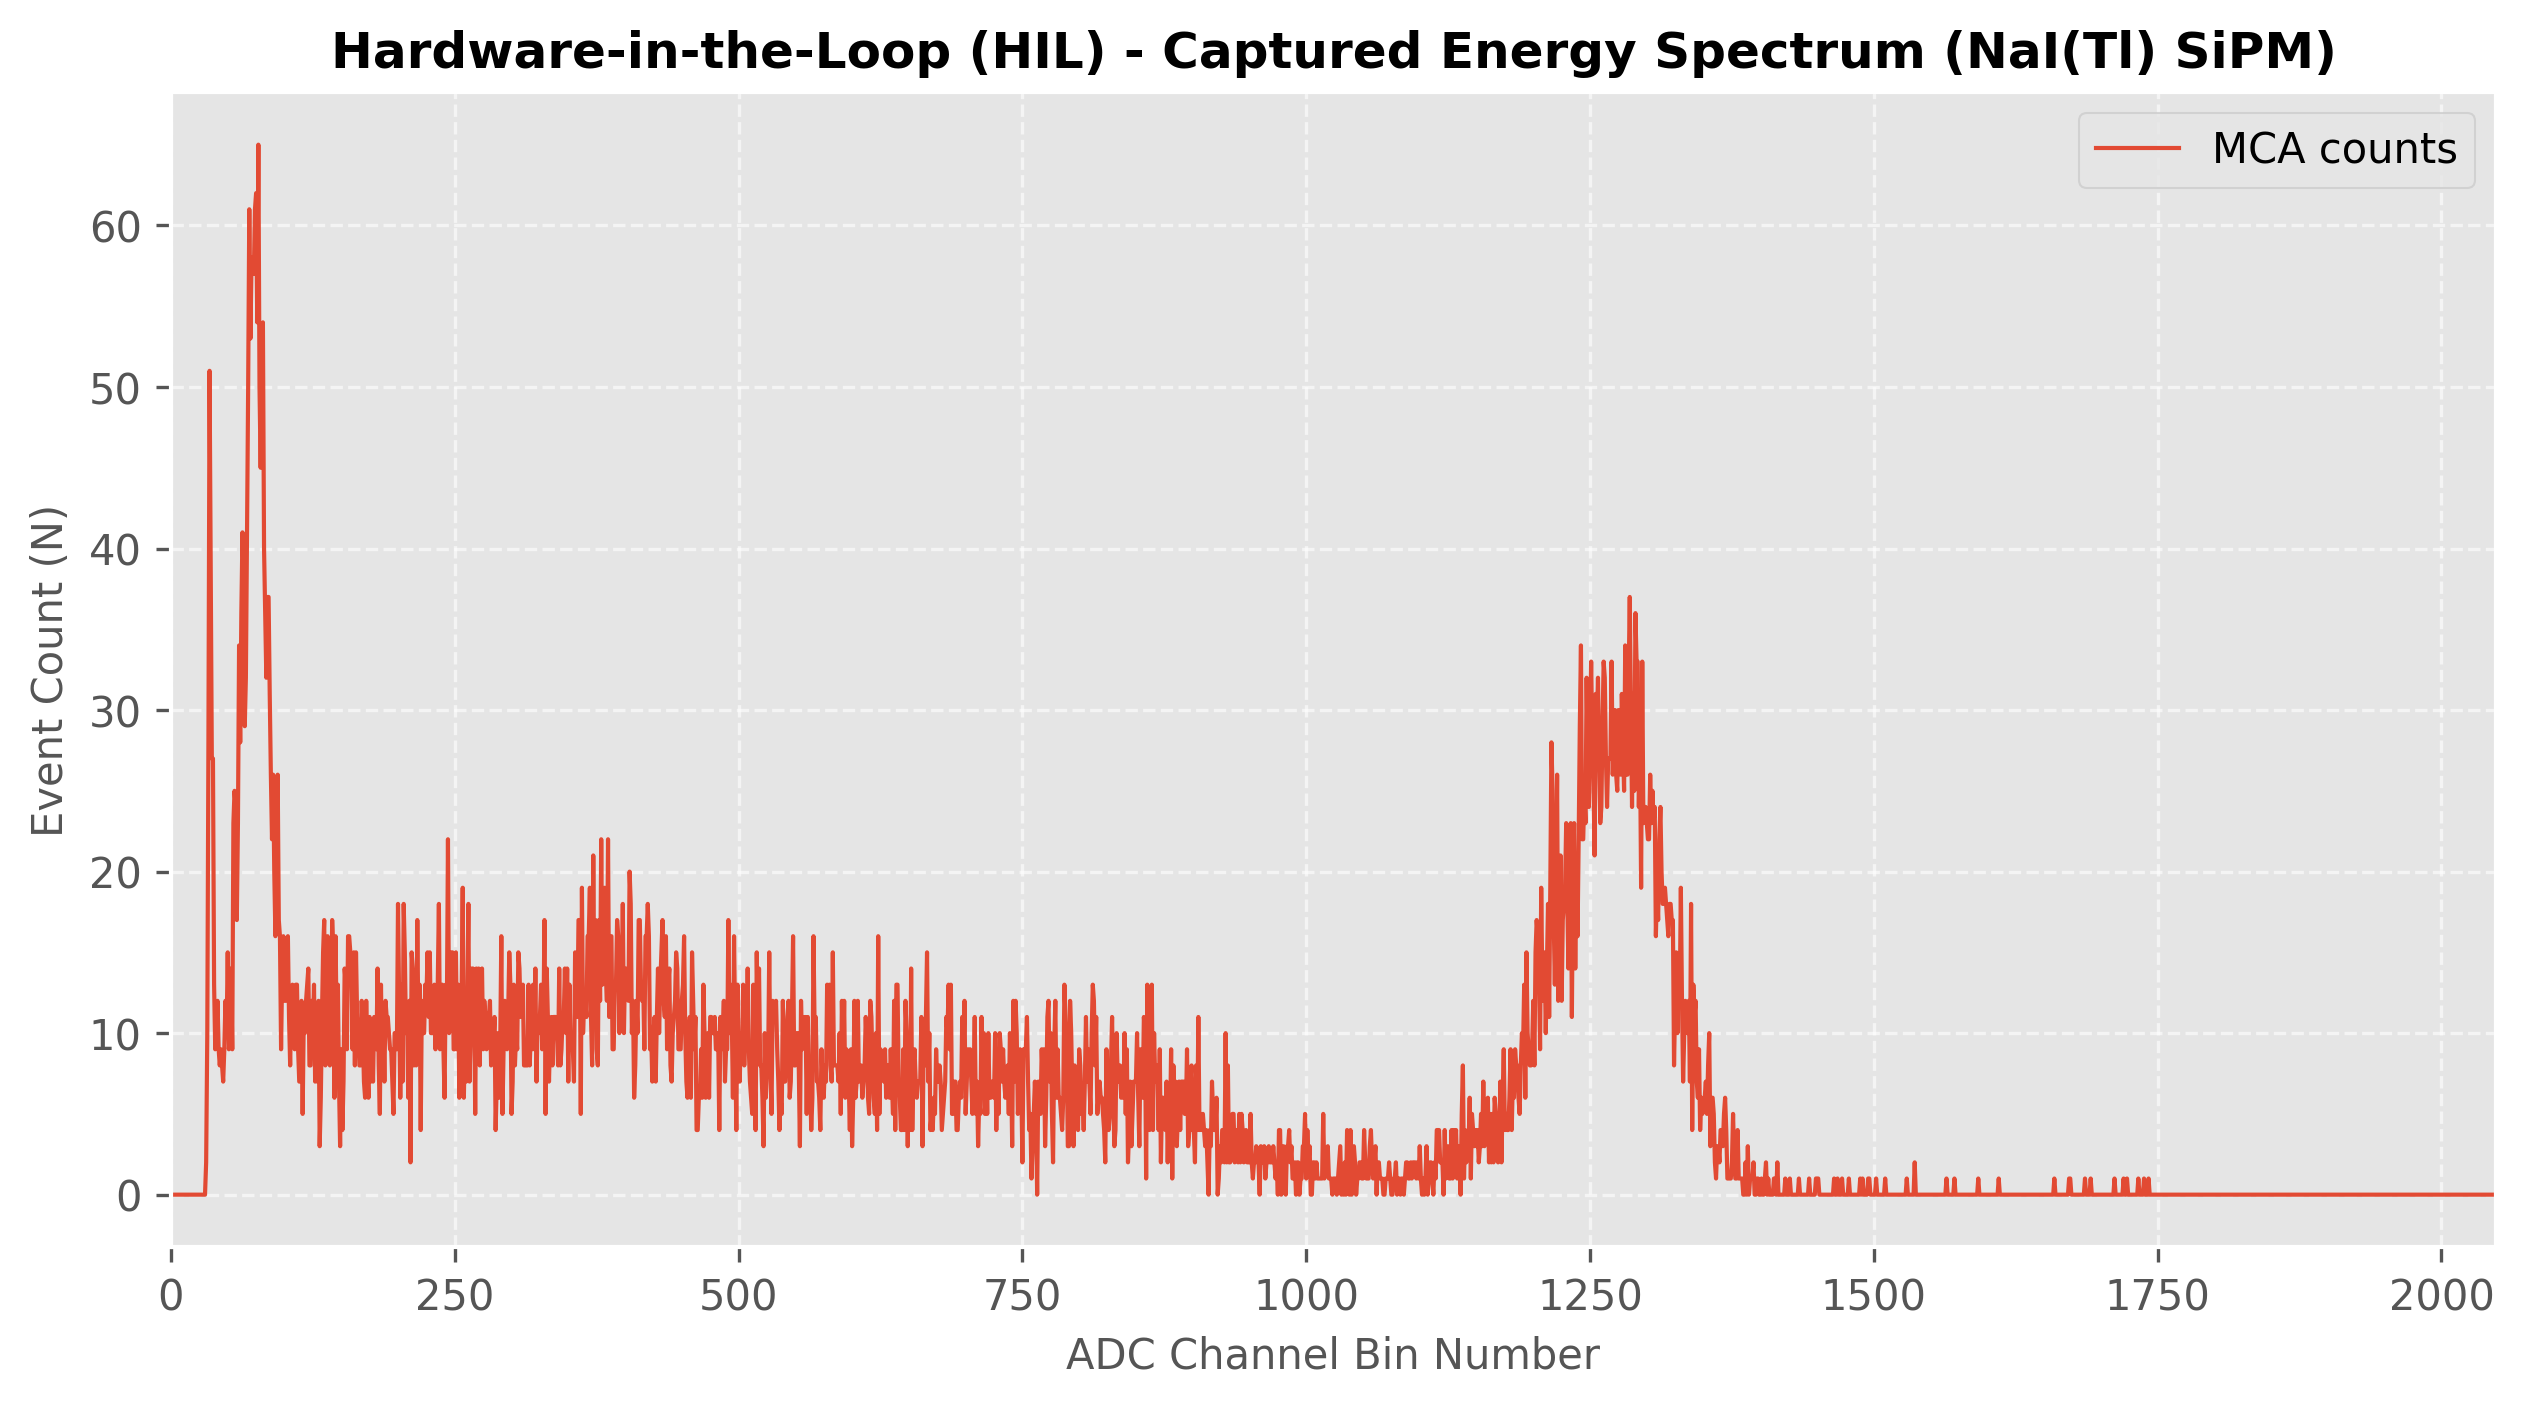
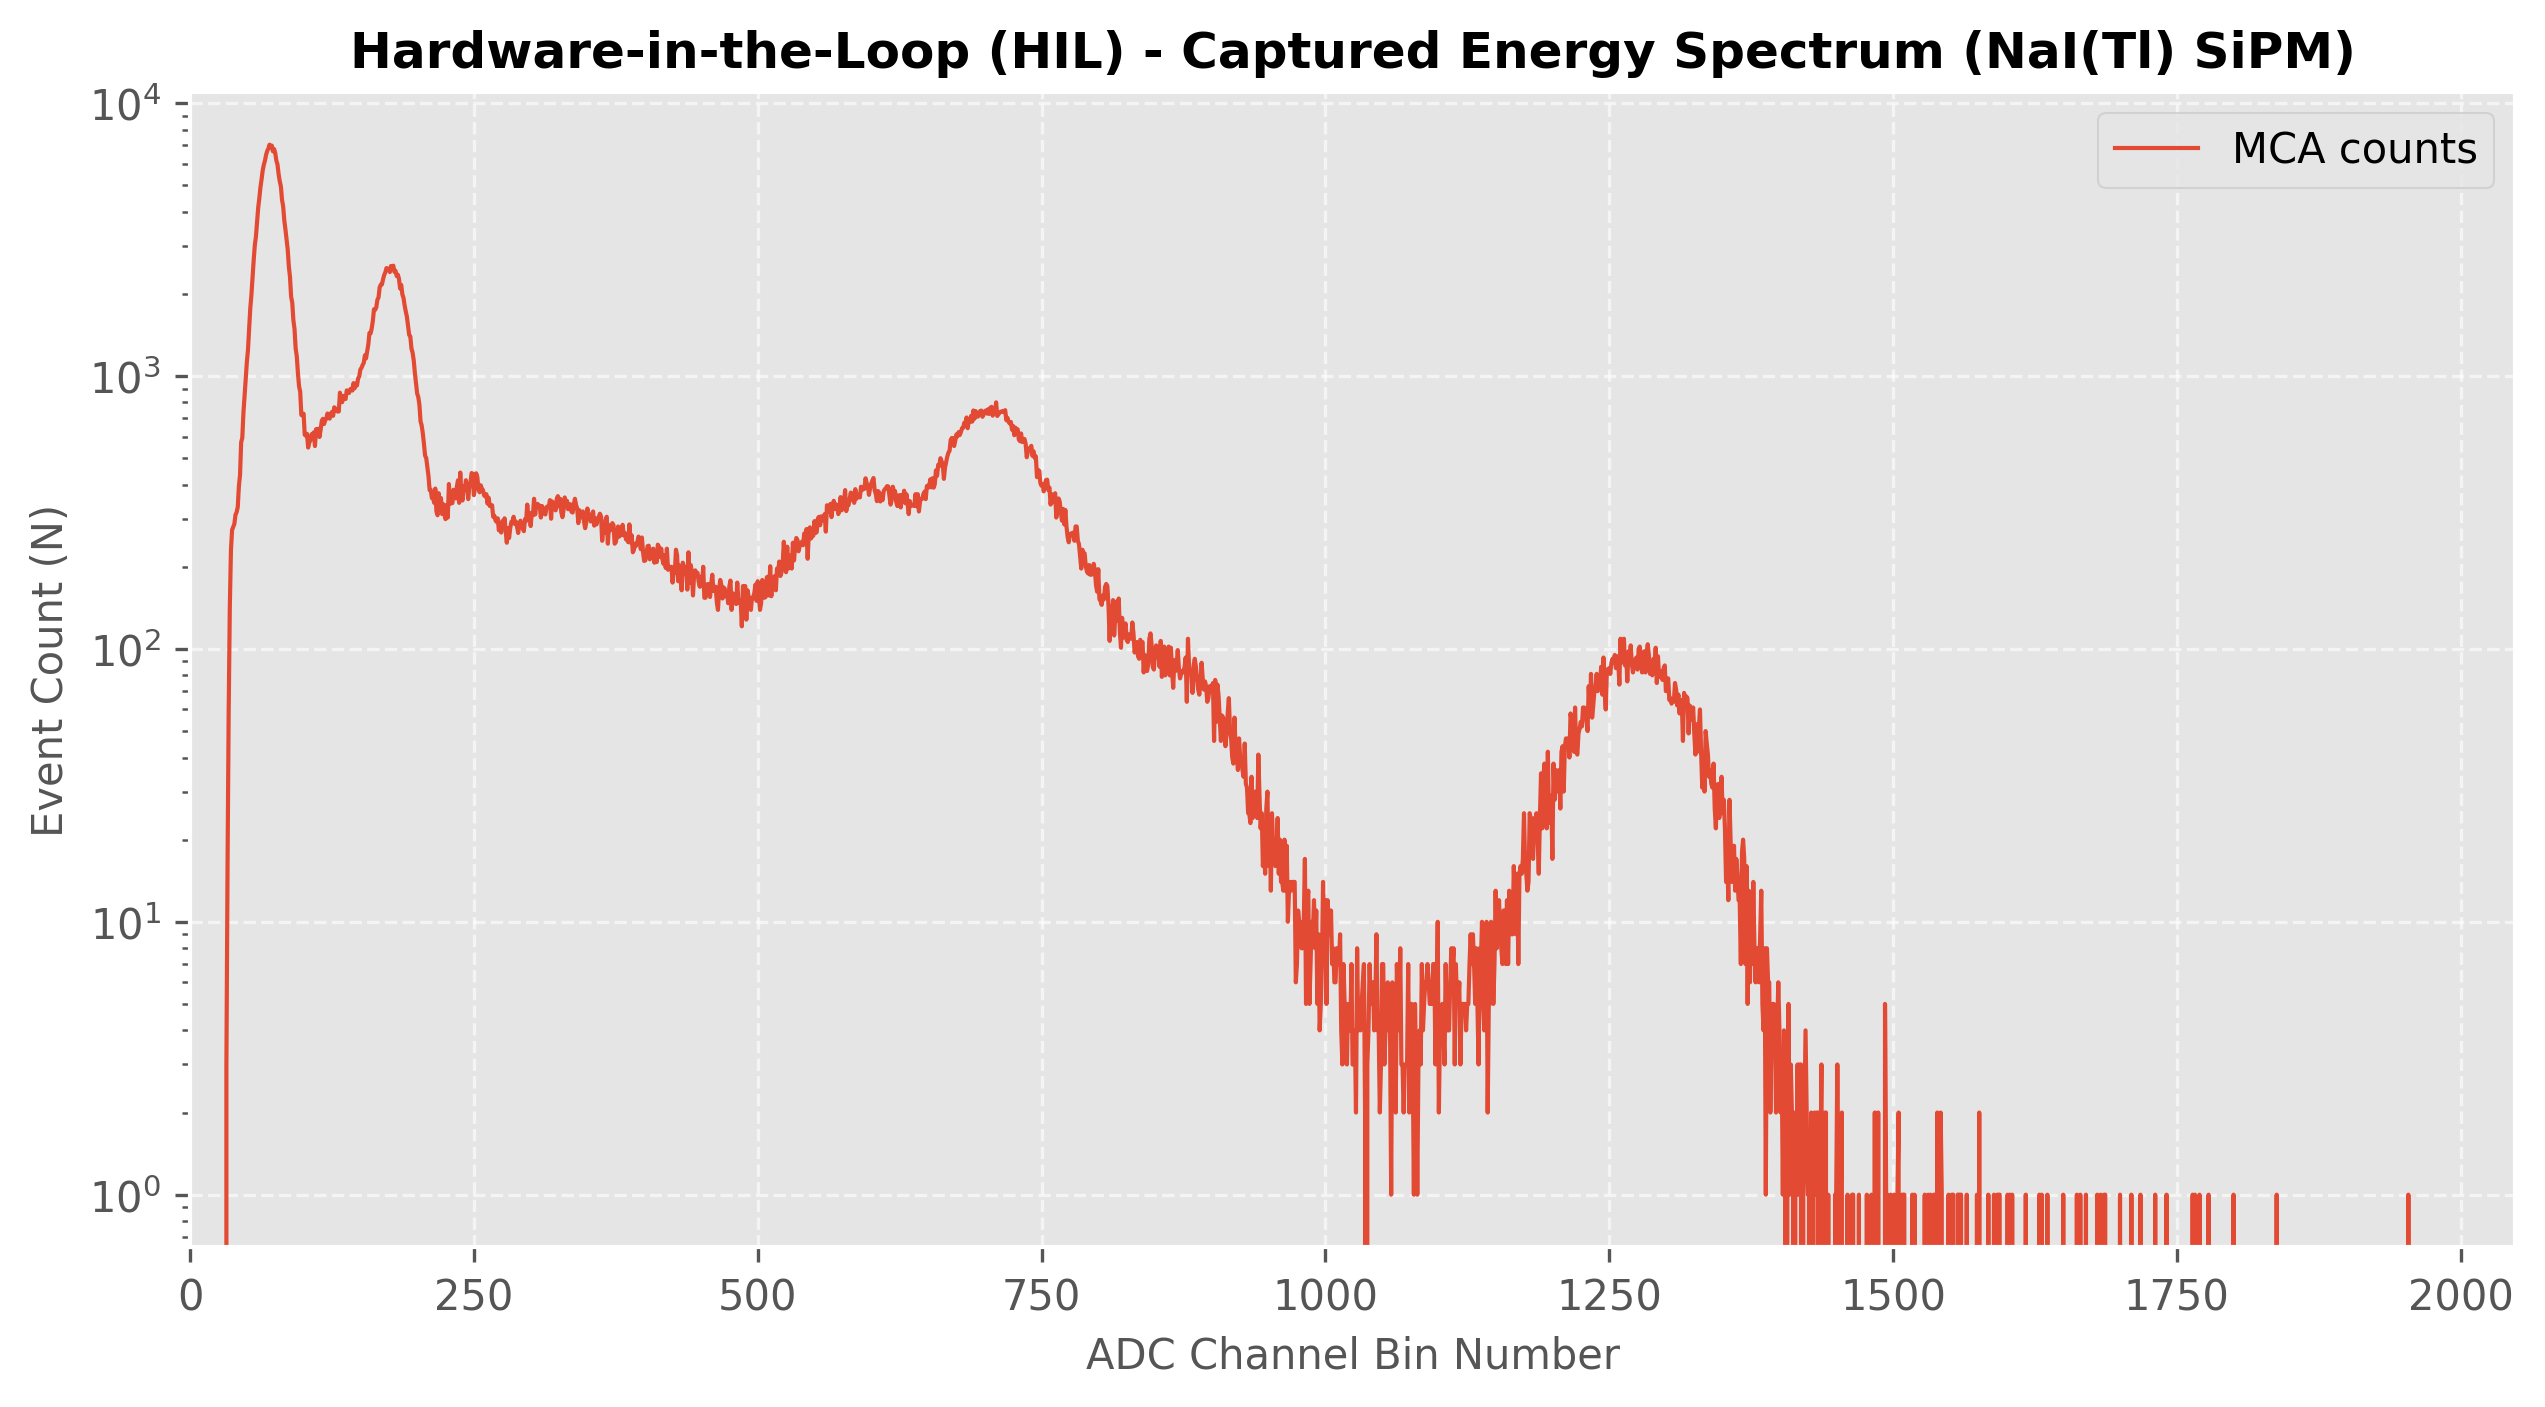
Issue #4: improved docstrings in PyTest test suite

diff --git a/sw/python-api/tests/test_hil_daq.py b/sw/python-api/tests/test_hil_daq.py
@@ -2,8 +2,12 @@
 Module: tests.test_hil_daq
 Location: sw/api/tests/test_hil_daq.py
 Description: Hardware-in-the-Loop (HIL) integration test suite running
-             against actual connected physical DAQ boards. Enforces sequential 
-             parameter streaming and exports a persistent chart of the captured spectrum.
+             with theconnected physical DAQ/MCA boards. Enforces sequential 
+             parameter streaming and exports a plot of the captured spectrum
+             and oscilloscope traces.
+Notes: 
+    - To execute this test suite, the DAQ/MCA board must be connected to the host.
+    - To run (from the python-api root): `uv run python -m pytest tests/test_hil_daq.py -v -s --log-cli-level=INFO`
 """
 
 import pytest, time, logging, os
@@ -14,6 +18,7 @@ from core.daq_commands import DaqCommands
 
 logger = logging.getLogger("DAQ_HIL_TEST")
 plt.style.use('ggplot') # Nice looking plots :)
+SPECTRUM_COLLECTION_TIME = 100
 
 
 @pytest.fixture
@@ -29,14 +34,14 @@ def daq_api(target_port):
         shaper_s_gain=1.0,
         shaper_f_gain=1.0,
         blr_s_threshold_gain = 4.0,
-        vga_gain_coarse = 12.0,
+        vga_gain_coarse = 12,
         dc_offset = -0.03,
         invert_pulse = False,
         smoothing_factor = 4,
         scope_mux_ch1 = 3,
         scope_mux_ch2 = 1,
     )
-    # Open connection and handle FTDI POR boot loader settling time
+    # Open connection and handle FTDI POR boot loader and FPGA bitstream settling time
     api.open(boot_delay=0.5)
     yield api
     api.close()
@@ -46,16 +51,16 @@ def test_hil_phase1_diagnostic_handshake(daq_api):
     """HIL Test: Verifies identity headers without executing a ping command."""
     version = daq_api.get_version()
     assert isinstance(version, str) and len(version) > 0
-    logger.info("Connected Device Firmware Version: %s", version)
+    logger.info(f"Connected Device Firmware Version: {version}", )
     
     serial_number = daq_api.get_serial()
     assert isinstance(serial_number, str) and len(serial_number) > 0
-    logger.info("Connected Device Serial Number: %s", serial_number)
+    logger.info(f"Connected Device Serial Number: {serial_number}")
 
 
 def test_hil_phase2_sequential_parameter_stream(daq_api):
-    """HIL Test: Streams physical DPP configuration packages sequentially down to the hardware."""
-    logger.info("PHASE 2: Streaming DPP parameter packages sequentially to hardware...")
+    """HIL Test: Streams physical DPP configuration settings sequentially to the DAQ/MCA."""
+    logger.info("PHASE 2: Streaming DPP parameter values sequentially to hardware...")
 
     assert daq_api.set_dpp_params(DppSubmodules.PULSE_SHAPER_SLOW) is True
     logger.info("Streamed Group 1: Slow Pulse Shaper parameters uploaded.")
@@ -64,10 +69,10 @@ def test_hil_phase2_sequential_parameter_stream(daq_api):
     logger.info("Streamed Group 2: Slow Peak Detector parameters uploaded.")
 
     assert daq_api.set_dpp_params(DppSubmodules.SCOPE) is True
-    logger.info("Streamed Group 3: Scope Setup parameters uploaded.")
+    logger.info("Streamed Group 3: Oscilloscope parameters uploaded.")
 
     assert daq_api.set_dpp_params(DppSubmodules.TIMERS) is True
-    logger.info("Streamed Group 4: Timers Configuration parameters uploaded.")
+    logger.info("Streamed Group 4: Timers configuration parameters uploaded.")
 
     assert daq_api.set_dpp_params(DppSubmodules.BASELINE_RESTORER_SLOW) is True
     logger.info("Streamed Group 5: Slow Baseline Restorer parameters uploaded.")
@@ -76,7 +81,7 @@ def test_hil_phase2_sequential_parameter_stream(daq_api):
     logger.info("Streamed Group 6: Scope Mux parameters uploaded.")
 
     assert daq_api.set_dpp_params(DppSubmodules.FORMATTER) is True
-    logger.info("Streamed Group 8: Formatter Preprocessing parameters uploaded.")
+    logger.info("Streamed Group 8: Formatter Preprocessing module parameters uploaded.")
 
     assert daq_api.set_dpp_params(DppSubmodules.PULSE_SHAPER_FAST) is True
     logger.info("Streamed Group 9: Fast Pulse Shaper parameters uploaded.")
@@ -91,33 +96,34 @@ def test_hil_phase2_sequential_parameter_stream(daq_api):
     logger.info("Streamed Group 13: Pileup Rejector parameters uploaded.")
 
     assert daq_api.set_dpp_params(DppSubmodules.VARIABLE_GAIN_AMPLIFIER) is True
-    logger.info("Streamed Group 15: Variable-Gain Amplifier parameters uploaded.")
+    logger.info("Streamed Group 15: Variable-Gain Amplifier (VGA) parameters uploaded.")
 
 
 def test_hil_phase3_acquisition_and_streaming(daq_api):
-    """HIL Test: Resets counters, activates acquisition run states, and streams binary buffers.
+    """HIL Test: Resets counters, activates acquisition run states, and collects binary buffers,
+    including the energy spectrum and the dual-channel oscilloscope traces.
     
-    Generates and saves a visual graph representation of the retrieved spectrum histogram data.
+    Generates and saves a plot of the retrieved spectrum histogram data and the oscilloscope.
     """
     logger.info("PHASE 3: Initiating data acquisition routines on configured hardware...")
 
     # 1. Clear active histogram banks and reset timers
     assert daq_api.clear_spectrum(segment_index=0) is True
     assert daq_api.timers_reset() is True
-    logger.info("Spectrum histogram buffers and real-time timers cleared.")
+    logger.info("Spectrum histogram and timers cleared.")
 
     # 2. Trigger active hardware spectrum acquisition
     assert daq_api.data_acquisition_start() is True
-    logger.info("Spectrum acquisition gate opened. Capturing signals...")
+    logger.info("Spectrum acquisition started. Capturing signals...")
 
     # 3. Poll active timer statistics mid-run
     timer_metrics = daq_api.timers_read()
     assert isinstance(timer_metrics, dict)
     logger.info(f"Fetched active hardware run counters: {timer_metrics}")
 
-    # 4. Collect the spectrum for at least 30 seconds
-    logger.info("Collecting spectrum for 30 seconds.")
-    for i in trange(30, desc="Collecting spectrum...", unit="s"):
+    # 4. Collect the spectrum for the designated duration in `SPECTRUM_COLLECTION_TIME`
+    logger.info(f"Collecting spectrum for {SPECTRUM_COLLECTION_TIME} seconds.")
+    for i in trange(SPECTRUM_COLLECTION_TIME, desc="Collecting spectrum...", unit="s"):
         time.sleep(1)
 
     # 5. Poll again the timer statistics mid-run
@@ -142,6 +148,7 @@ def test_hil_phase3_acquisition_and_streaming(daq_api):
         plt.title('Hardware-in-the-Loop (HIL) - Captured Energy Spectrum (NaI(Tl) SiPM)', fontsize=12, fontweight='bold')
         plt.xlabel('ADC Channel Bin Number', fontsize=10)
         plt.ylabel('Event Count (N)', fontsize=10)
+        plt.yscale('log')
         plt.grid(True, linestyle='--', alpha=0.6)
         plt.xlim(0, 2048)
         plt.legend(loc='upper right')

diff --git a/sw/python-api/tests/conftest.py b/sw/python-api/tests/conftest.py
@@ -22,7 +22,7 @@ def target_port():
     if not port_name:
         pytest.skip(
             f"HIL Setup Missing: No DAQ hardware found matching "
-            f"VID {finder.DEFAULT_VID} and PID {finder.DEFAULT_PID}. Skipping HIL suite."
+            f"VID {finder.DEFAULT_VID} and PID {finder.DEFAULT_PID}. Skipping HIL test suite."
         )
         
     if isinstance(port_name, list):
